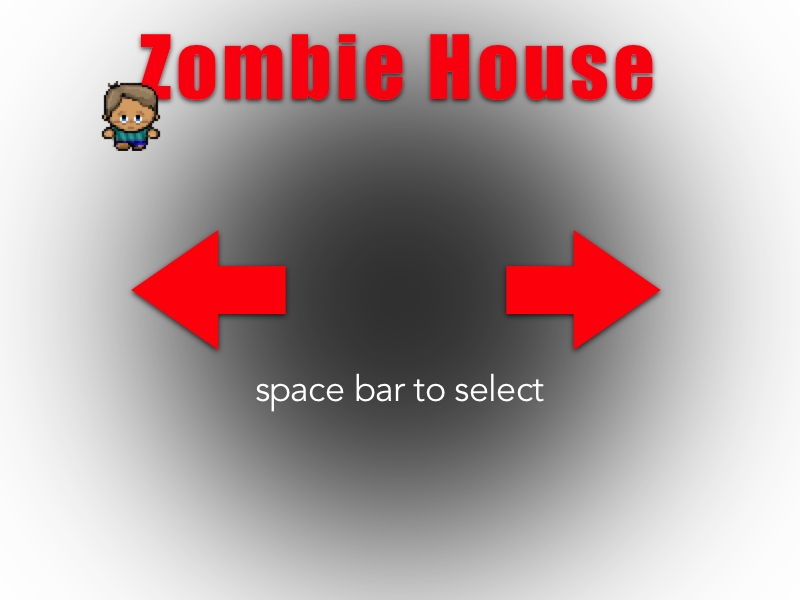
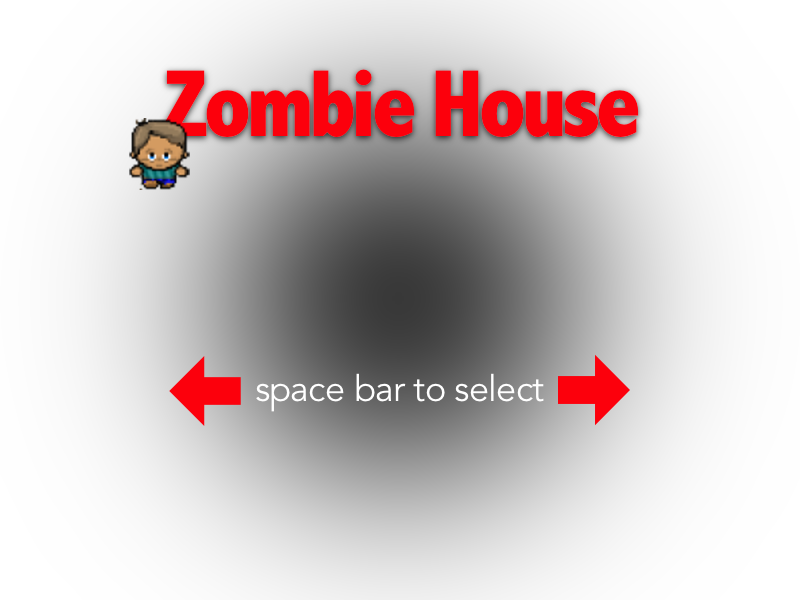
updated menu screen

diff --git a/src/view/MenuRenderer.java b/src/view/MenuRenderer.java
@@ -79,7 +79,7 @@ public class MenuRenderer extends Renderer
                 (int)(viewBounds.getHeight() - image.getHeight())/2, null);
 
 
-    g.setColor(new Color(255,255,255, this.blinker(currentOpacity)));
+    g.setColor(new Color(255, 255, 255, this.blinker(currentOpacity)));
     g.setFont(new Font("Verdana", Font.BOLD, 40));
 
     // add text or variable to render here
@@ -87,10 +87,13 @@ public class MenuRenderer extends Renderer
                  ((int)((viewBounds.getWidth() - image.getWidth())/2)+ 250),
                  ((int)(viewBounds.getHeight() - image.getHeight())/2) +150);
 
-    g.drawImage(selections[options.getState().ordinal()],
-                ((int)(viewBounds.getWidth() - image.getWidth())/2) + 341,
-                ((int)(viewBounds.getHeight() - image.getHeight())/2) + 264,
-                null);
+    g.setColor(new Color(252,0,12));
+    g.setFont(new Font("Verdana", Font.PLAIN, 30));
+
+    g.drawString(options.getState().toString() ,
+                 ((int) (viewBounds.getWidth() - image.getWidth()) / 2) + 350,
+                 ((int) (viewBounds.getHeight() - image.getHeight()) / 2) +
+                         294);
 
   }
 }
